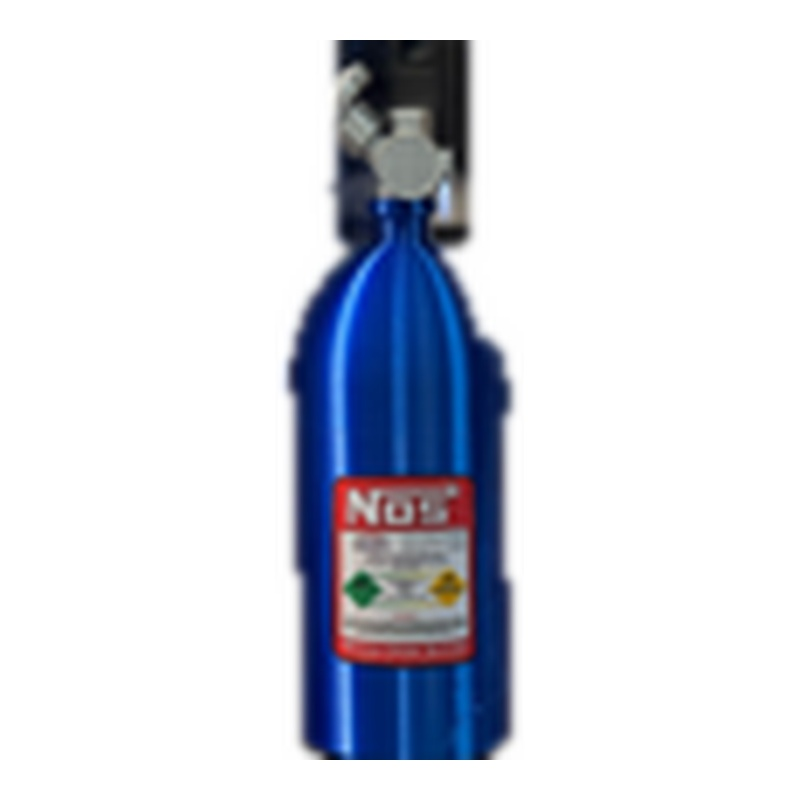
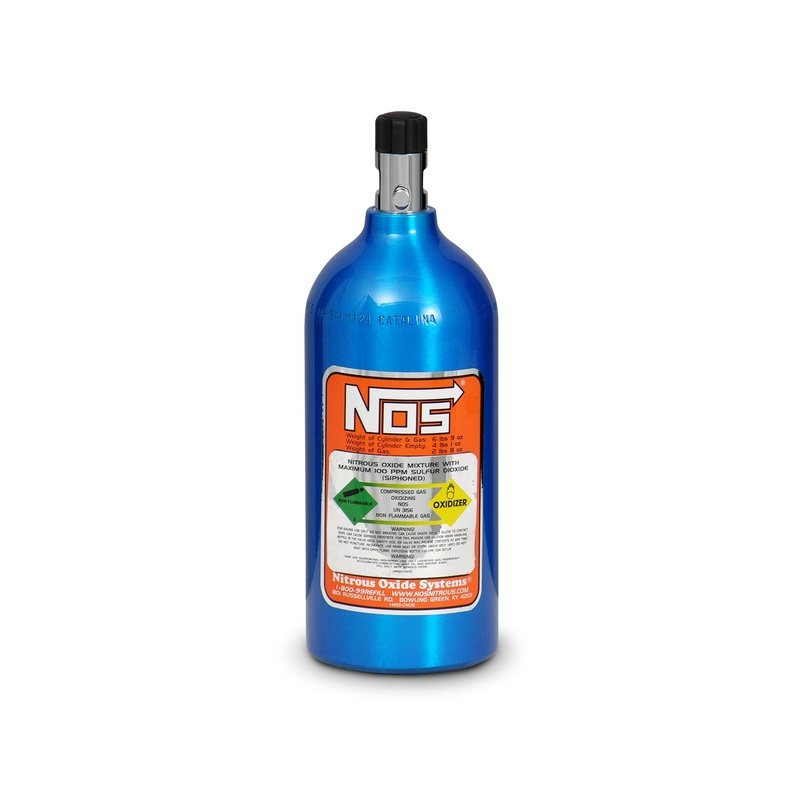
fix: remover mascote rennan, atualizar fotos em fundo 100% branco para copo nos, fatima e celta

Changed region(s): [[0.3438, 0.0312, 0.6562, 0.9688]]

diff --git a/public/assets/js/products.js b/public/assets/js/products.js
@@ -936,77 +936,7 @@ const PRODUCTS_DATA = [
       "Detalhe 3D / Macro (0.12mm)"
     ]
   },
-  {
-    "id": "boneco-rennan-sentado-vaso",
-    "name": "Mascote Rennan Sentado no Vaso Sanitário 3D (Edição Humor)",
-    "subtitle": "Escultura Modular Multipeças 4 Cores AMS Bambu Lab com Óculos e Base Detalhada",
-    "category": "colecionaveis",
-    "categoryName": "Colecionáveis & Geek",
-    "pumaCategory": "colecionaveis",
-    "pumaCategoryLabel": "COLECIONÁVEL 3D • HUMOR & MEME",
-    "badge": "✦ MEME & HUMOR VIP",
-    "basePrice": 139.0,
-    "wholesalePrice": 80.62,
-    "wholesaleMinQty": 10,
-    "wholesaleLabel": "R$ 80,62 un (a partir de 10 un)",
-    "wholesaleDiscountPercent": "42% OFF",
-    "materialDisplay": "PLA Multi-Cores 4 Tons Bambu Lab A1",
-    "materials": [
-      "PLA Premium Multi-Cores",
-      "Peças Modulares com Encaixe Macho-Fêmea 0.15mm"
-    ],
-    "leadTime": "3 a 5 dias úteis",
-    "dimensions": "16,0cm (A) × 11,5cm (L) × 10,0cm (P)",
-    "weight": "210g",
-    "discountTiers": [
-      {
-        "min": 1,
-        "label": "1 a 4 un",
-        "price": 139.0,
-        "discount": "Preço Padrão"
-      },
-      {
-        "min": 5,
-        "label": "5 a 9 un",
-        "price": 109.0,
-        "discount": "22% OFF"
-      },
-      {
-        "min": 10,
-        "label": "10+ un (Atacado)",
-        "price": 80.62,
-        "discount": "42% OFF"
-      }
-    ],
-    "description": "Edição especial comemorativa e divertida do personagem Rennan sentado no vaso sanitário com pose cômica e descontraída. Modelado com óculos de grau em relevo, barba esculpida, cueca personalizada e vaso sanitário com textura de cerâmica brilhante.",
-    "b2bBenefits": [
-      "Presente icônico para brincadeiras entre amigos, formaturas e troféu de 'inimigo secreto'",
-      "Construção modular com separação cromática limpa e sem falhas de pintura",
-      "Base estável que fica perfeita sobre mesas de trabalho e estantes",
-      "Altíssimo engajamento como peça promocional de humor e descontração"
-    ],
-    "images": [
-      "assets/images/prod_boneco-rennan-sentado-vaso_1_front.jpg",
-      "assets/images/prod_boneco-rennan-sentado-vaso_2_hero.jpg",
-      "assets/images/prod_boneco-rennan-sentado-vaso_3_side.jpg",
-      "assets/images/prod_boneco-rennan-sentado-vaso_4_detail.jpg"
-    ],
-    "gallery": [
-      "assets/images/prod_boneco-rennan-sentado-vaso_1_front.jpg",
-      "assets/images/prod_boneco-rennan-sentado-vaso_2_hero.jpg",
-      "assets/images/prod_boneco-rennan-sentado-vaso_3_side.jpg",
-      "assets/images/prod_boneco-rennan-sentado-vaso_4_detail.jpg"
-    ],
-    "image": "assets/images/prod_boneco-rennan-sentado-vaso_1_front.jpg",
-    "mainImage": "assets/images/prod_boneco-rennan-sentado-vaso_1_front.jpg",
-    "imageLabels": [
-      "Vista Frontal (Front)",
-      "Perspectiva 3/4 (Hero)",
-      "Vista Lateral (Side)",
-      "Detalhe 3D / Macro (0.12mm)"
-    ]
-  },
-  {
+    {
     "id": "copo-3d-nitro-monster",
     "name": "Copo Temático 3D Nitro NOS Monster Energy",
     "subtitle": "Porta-Lata e Copo Estilo Cilindro NOS Nitro com Válvulas e Logotipo em Relevo",
@@ -1288,7 +1218,7 @@ const PRODUCTS_DATA = [
     ]
   },
   {
-    "id": "boneco-rennan-paraquedista",
+    "id": "boneco-personalizado-mascote-3d",
     "name": "Boneco Personalizado 3D (Sua Marca / Seu Personagem)",
     "subtitle": "Escultura Modular Multipeças com Pose Dinâmica e Base Nuvem",
     "category": "colecionaveis",
@@ -1339,19 +1269,19 @@ const PRODUCTS_DATA = [
       "Produção rápida para eventos corporativos"
     ],
     "images": [
-      "assets/images/prod_boneco-rennan-paraquedista_1_front.jpg",
-      "assets/images/prod_boneco-rennan-paraquedista_2_hero.jpg",
-      "assets/images/prod_boneco-rennan-paraquedista_3_side.jpg",
-      "assets/images/prod_boneco-rennan-paraquedista_4_detail.jpg"
+      "assets/images/prod_boneco-personalizado-mascote-3d_1_front.jpg",
+      "assets/images/prod_boneco-personalizado-mascote-3d_2_hero.jpg",
+      "assets/images/prod_boneco-personalizado-mascote-3d_3_side.jpg",
+      "assets/images/prod_boneco-personalizado-mascote-3d_4_detail.jpg"
     ],
     "gallery": [
-      "assets/images/prod_boneco-rennan-paraquedista_1_front.jpg",
-      "assets/images/prod_boneco-rennan-paraquedista_2_hero.jpg",
-      "assets/images/prod_boneco-rennan-paraquedista_3_side.jpg",
-      "assets/images/prod_boneco-rennan-paraquedista_4_detail.jpg"
+      "assets/images/prod_boneco-personalizado-mascote-3d_1_front.jpg",
+      "assets/images/prod_boneco-personalizado-mascote-3d_2_hero.jpg",
+      "assets/images/prod_boneco-personalizado-mascote-3d_3_side.jpg",
+      "assets/images/prod_boneco-personalizado-mascote-3d_4_detail.jpg"
     ],
-    "image": "assets/images/prod_boneco-rennan-paraquedista_1_front.jpg",
-    "mainImage": "assets/images/prod_boneco-rennan-paraquedista_1_front.jpg",
+    "image": "assets/images/prod_boneco-personalizado-mascote-3d_1_front.jpg",
+    "mainImage": "assets/images/prod_boneco-personalizado-mascote-3d_1_front.jpg",
     "imageLabels": [
       "Vista Frontal (Front)",
       "Perspectiva 3/4 (Hero)",

diff --git a/public/assets/js/quote_calculator.js b/public/assets/js/quote_calculator.js
@@ -12,7 +12,7 @@ const QuoteSimulator = (function () {
     currentFile: null,
     currentFileName: "CHAVEIRO_TIMELION_COMPLETO.stl",
     currentAnalysis: null,
-    selectedProductId: "boneco-rennan-paraquedista",
+    selectedProductId: "boneco-personalizado-mascote-3d",
     material: "PLA",
     infill: 15,
     colors: 1,
